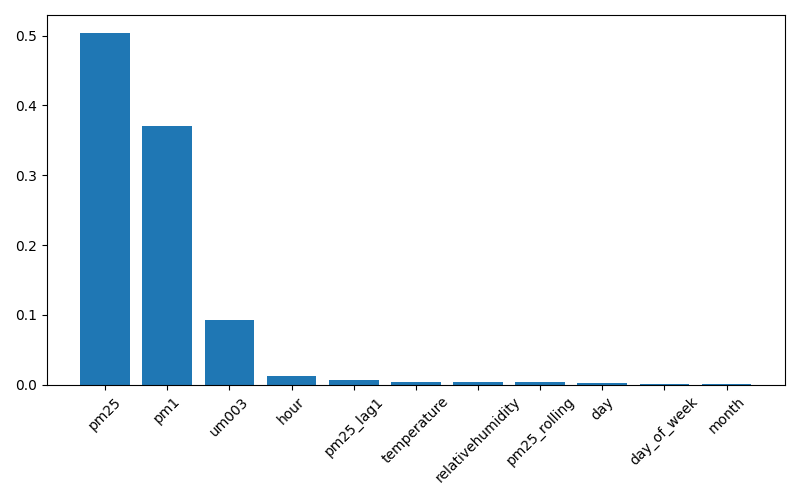
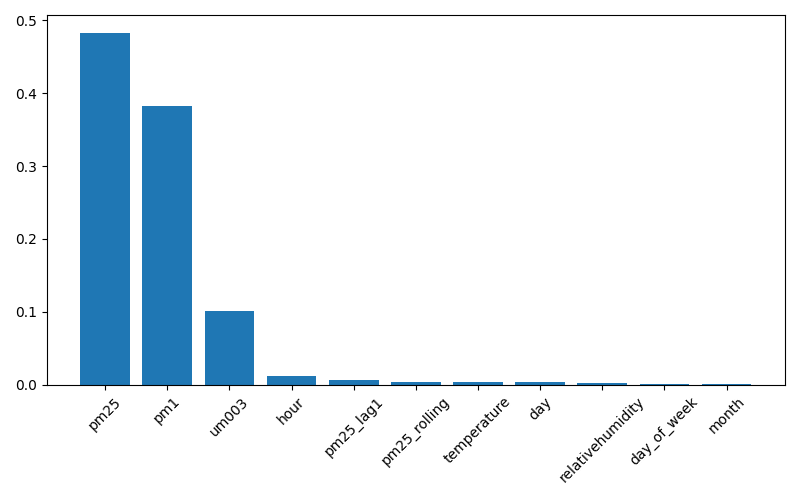
monitoring

diff --git a/api_service.py b/api_service.py
@@ -5,6 +5,9 @@ Terintegrasi dengan MLflow untuk model tracking
 """
 
 from fastapi import FastAPI, HTTPException
+from prometheus_client import Counter, Histogram, Gauge, generate_latest
+import time
+import os
 from pydantic import BaseModel, Field
 import pandas as pd
 import joblib
@@ -63,6 +66,13 @@ except ImportError as e:
         return recommendations.get(aqi_status, "Tidak ada rekomendasi tersedia.")
 
 # Konfigurasi
+# Prometheus Metrics
+PREDICTION_COUNT = Counter('aqi_predictions_total', 'Total predictions')
+PREDICTION_LATENCY = Histogram('aqi_prediction_latency_seconds', 'Prediction latency')
+REQUEST_COUNT = Counter('aqi_requests_total', 'Total requests', ['endpoint'])
+PREDICTION_SCORE = Gauge('aqi_predicted_score', 'Predicted AQI score')
+MODEL_STATUS = Gauge('aqi_model_loaded', 'Model loaded status')
+
 app = FastAPI(
     title="AQI Prediction API",
     description="API untuk prediksi Air Quality Index (AQI)",
@@ -276,6 +286,8 @@ async def health_check():
 
 @app.post("/predict", response_model=PredictionResponse)
 async def predict_single(data: SensorData):
+    REQUEST_COUNT.labels(endpoint='/predict').inc()
+    start_time = time.time()
     """Predict AQI for single sensor data"""
     if model is None:
         raise HTTPException(status_code=503, detail="Model not loaded. Train model first.")
@@ -286,6 +298,11 @@ async def predict_single(data: SensorData):
         predicted_aqi = pm25_to_aqi(predicted_pm25)
         aqi_category = classify_aqi(predicted_aqi)
         recommendation = get_recommendation(aqi_category)
+        
+        PREDICTION_COUNT.inc()
+        PREDICTION_LATENCY.observe(time.time() - start_time)
+        PREDICTION_SCORE.set(predicted_aqi)
+        MODEL_STATUS.set(1)
         
         return PredictionResponse(
             predicted_pm25=round(predicted_pm25, 2),
@@ -395,6 +412,11 @@ async def get_latest_data():
     
     return result
 
+
[email redacted]("/metrics")
+async def metrics():
+    from fastapi.responses import PlainTextResponse
+    return PlainTextResponse(content=generate_latest(), media_type="text/plain")
 
 if __name__ == "__main__":
     import uvicorn